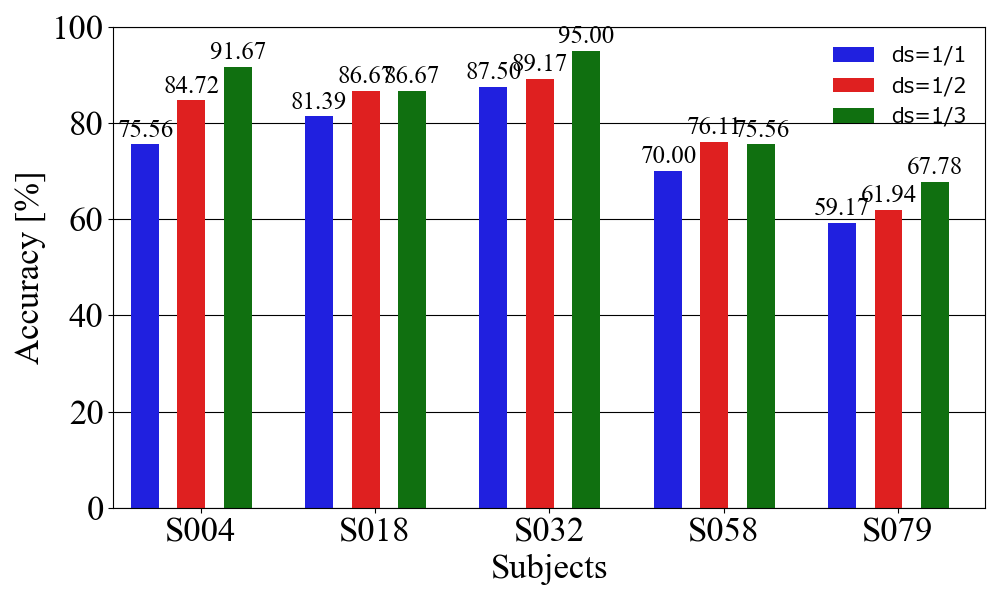
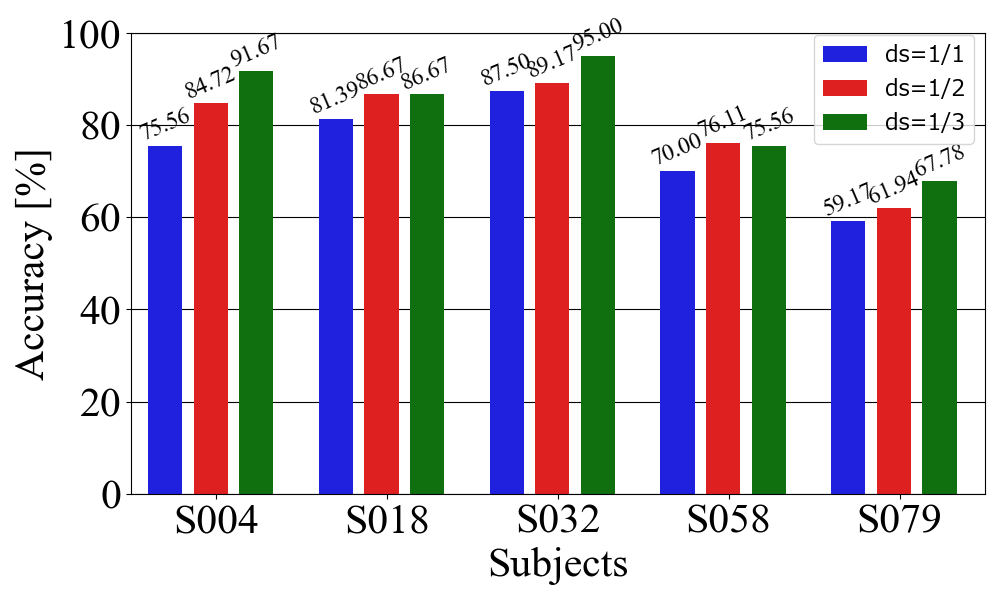
modify result_hist and result_plot

Changed region(s): [[0.0, 0.03, 0.992, 0.99]]

diff --git a/ML/create_result_hist.py b/ML/create_result_hist.py
@@ -30,15 +30,25 @@ def create_dataframe_from_results(results):
     df = pd.DataFrame(results).T
     return df
 
-# 値ラベルの追加
+
 def add_labels(ax):
     for p in ax.patches:
         ax.annotate(format(p.get_height(), ".2f"),
-                    (p.get_x() + p.get_width() / 2., p.get_height()),
-                    ha = "center", va = "center",
-                    xytext = (0, 10), textcoords = "offset points",
+                    (p.get_x() + p.get_width() / 2., p.get_height() + 0.05),  # ラベルを少し上に移動
+                    ha="center", va="bottom",
+                    fontsize=value_label_fontsize,
                     fontproperties=en_font,
-                    fontsize=value_label_fontsize)
+                    rotation=23)  # ラベルを少し斜めに配置
+
+# 値ラベルの追加
+# def add_labels(ax):
+#     for p in ax.patches:
+#         ax.annotate(format(p.get_height(), ".2f"),
+#                     (p.get_x() + p.get_width() / 2., p.get_height()),
+#                     ha = "center", va = "center",
+#                     xytext = (0, 10), textcoords = "offset points",
+#                     fontproperties=en_font,
+#                     fontsize=value_label_fontsize)
 
 def result_indexses(num_class, subj):
     index_mapping = {
@@ -126,15 +136,15 @@ for num_class in num_classes:
     # data formatting
     df = df.T.reset_index().melt(id_vars="index", var_name="dawn sampling level", value_name="Accuracy")
     df["Accuracy"] = pd.to_numeric(df["Accuracy"], errors="coerce")
-    bar_width = 0.16  # width of the bar
+    bar_width = 0.20  # width of the bar
     x = np.arange(len(subjects))
 
     # plot settings
     plt.figure(figsize=(10, 6))
     plt.ylim(0, 100)
-    label_fontsize = 25
-    value_label_fontsize = 18
-    legend_fontsize = 15
+    label_fontsize = 30
+    value_label_fontsize = 17
+    legend_fontsize = 16
 
     ax = sns.barplot(x="index", y="Accuracy", palette=["b", "r", "g"], hue="dawn sampling level", data=df, dodge=True)
 
@@ -147,7 +157,7 @@ for num_class in num_classes:
     plt.xlabel("Subjects", fontproperties=en_font, fontsize=label_fontsize)
     plt.ylabel("Accuracy [%]", fontproperties=en_font, fontsize=label_fontsize)
 
-    leg = plt.legend(loc="upper right", prop={"size": legend_fontsize}, frameon=False)
+    leg = plt.legend(loc="upper right", prop={"size": legend_fontsize}, frameon=True, bbox_to_anchor=(1.0, 1.02))
 
 
     # legend font properties

diff --git a/ML/create_result_plot.py b/ML/create_result_plot.py
@@ -116,7 +116,7 @@ base_dir = current_dir
 subjects = ["S004", "S018", "S032", "S058", "S079"] # S004, S018, S032, S058, S079
 
 # difine directory path settings////////////////////////////
-analyzed_interval = "1.0s" # 0.5s, 1.0s, 3.0s
+analyzed_interval = "3.0s" # 0.5s, 1.0s, 3.0s
 preprocessing = "DWT"
 number_of_chs = [64] # How many channels to use
 task_type = 0 # actual_imagine = 0, actual = 1, imagine = 2
@@ -153,9 +153,8 @@ for number_of_ch in number_of_chs:
         # plot settings(64ch)
         plt.figure(figsize=(10, 6))
         plt.ylim(30, 100)
-        label_fontsize = 18
-        value_label_fontsize = 15
-        legend_fontsize = 15
+        label_fontsize = 30
+        legend_fontsize = 18
 
         ax_64ch = sns.lineplot(x="index", y="Accuracy", hue="Number of classification class", data=df, palette=["steelblue", "tomato", "forestgreen"],
                             markers=["o", "s", "D"], dashes=False, style="Number of classification class", legend="full", linewidth=2)
